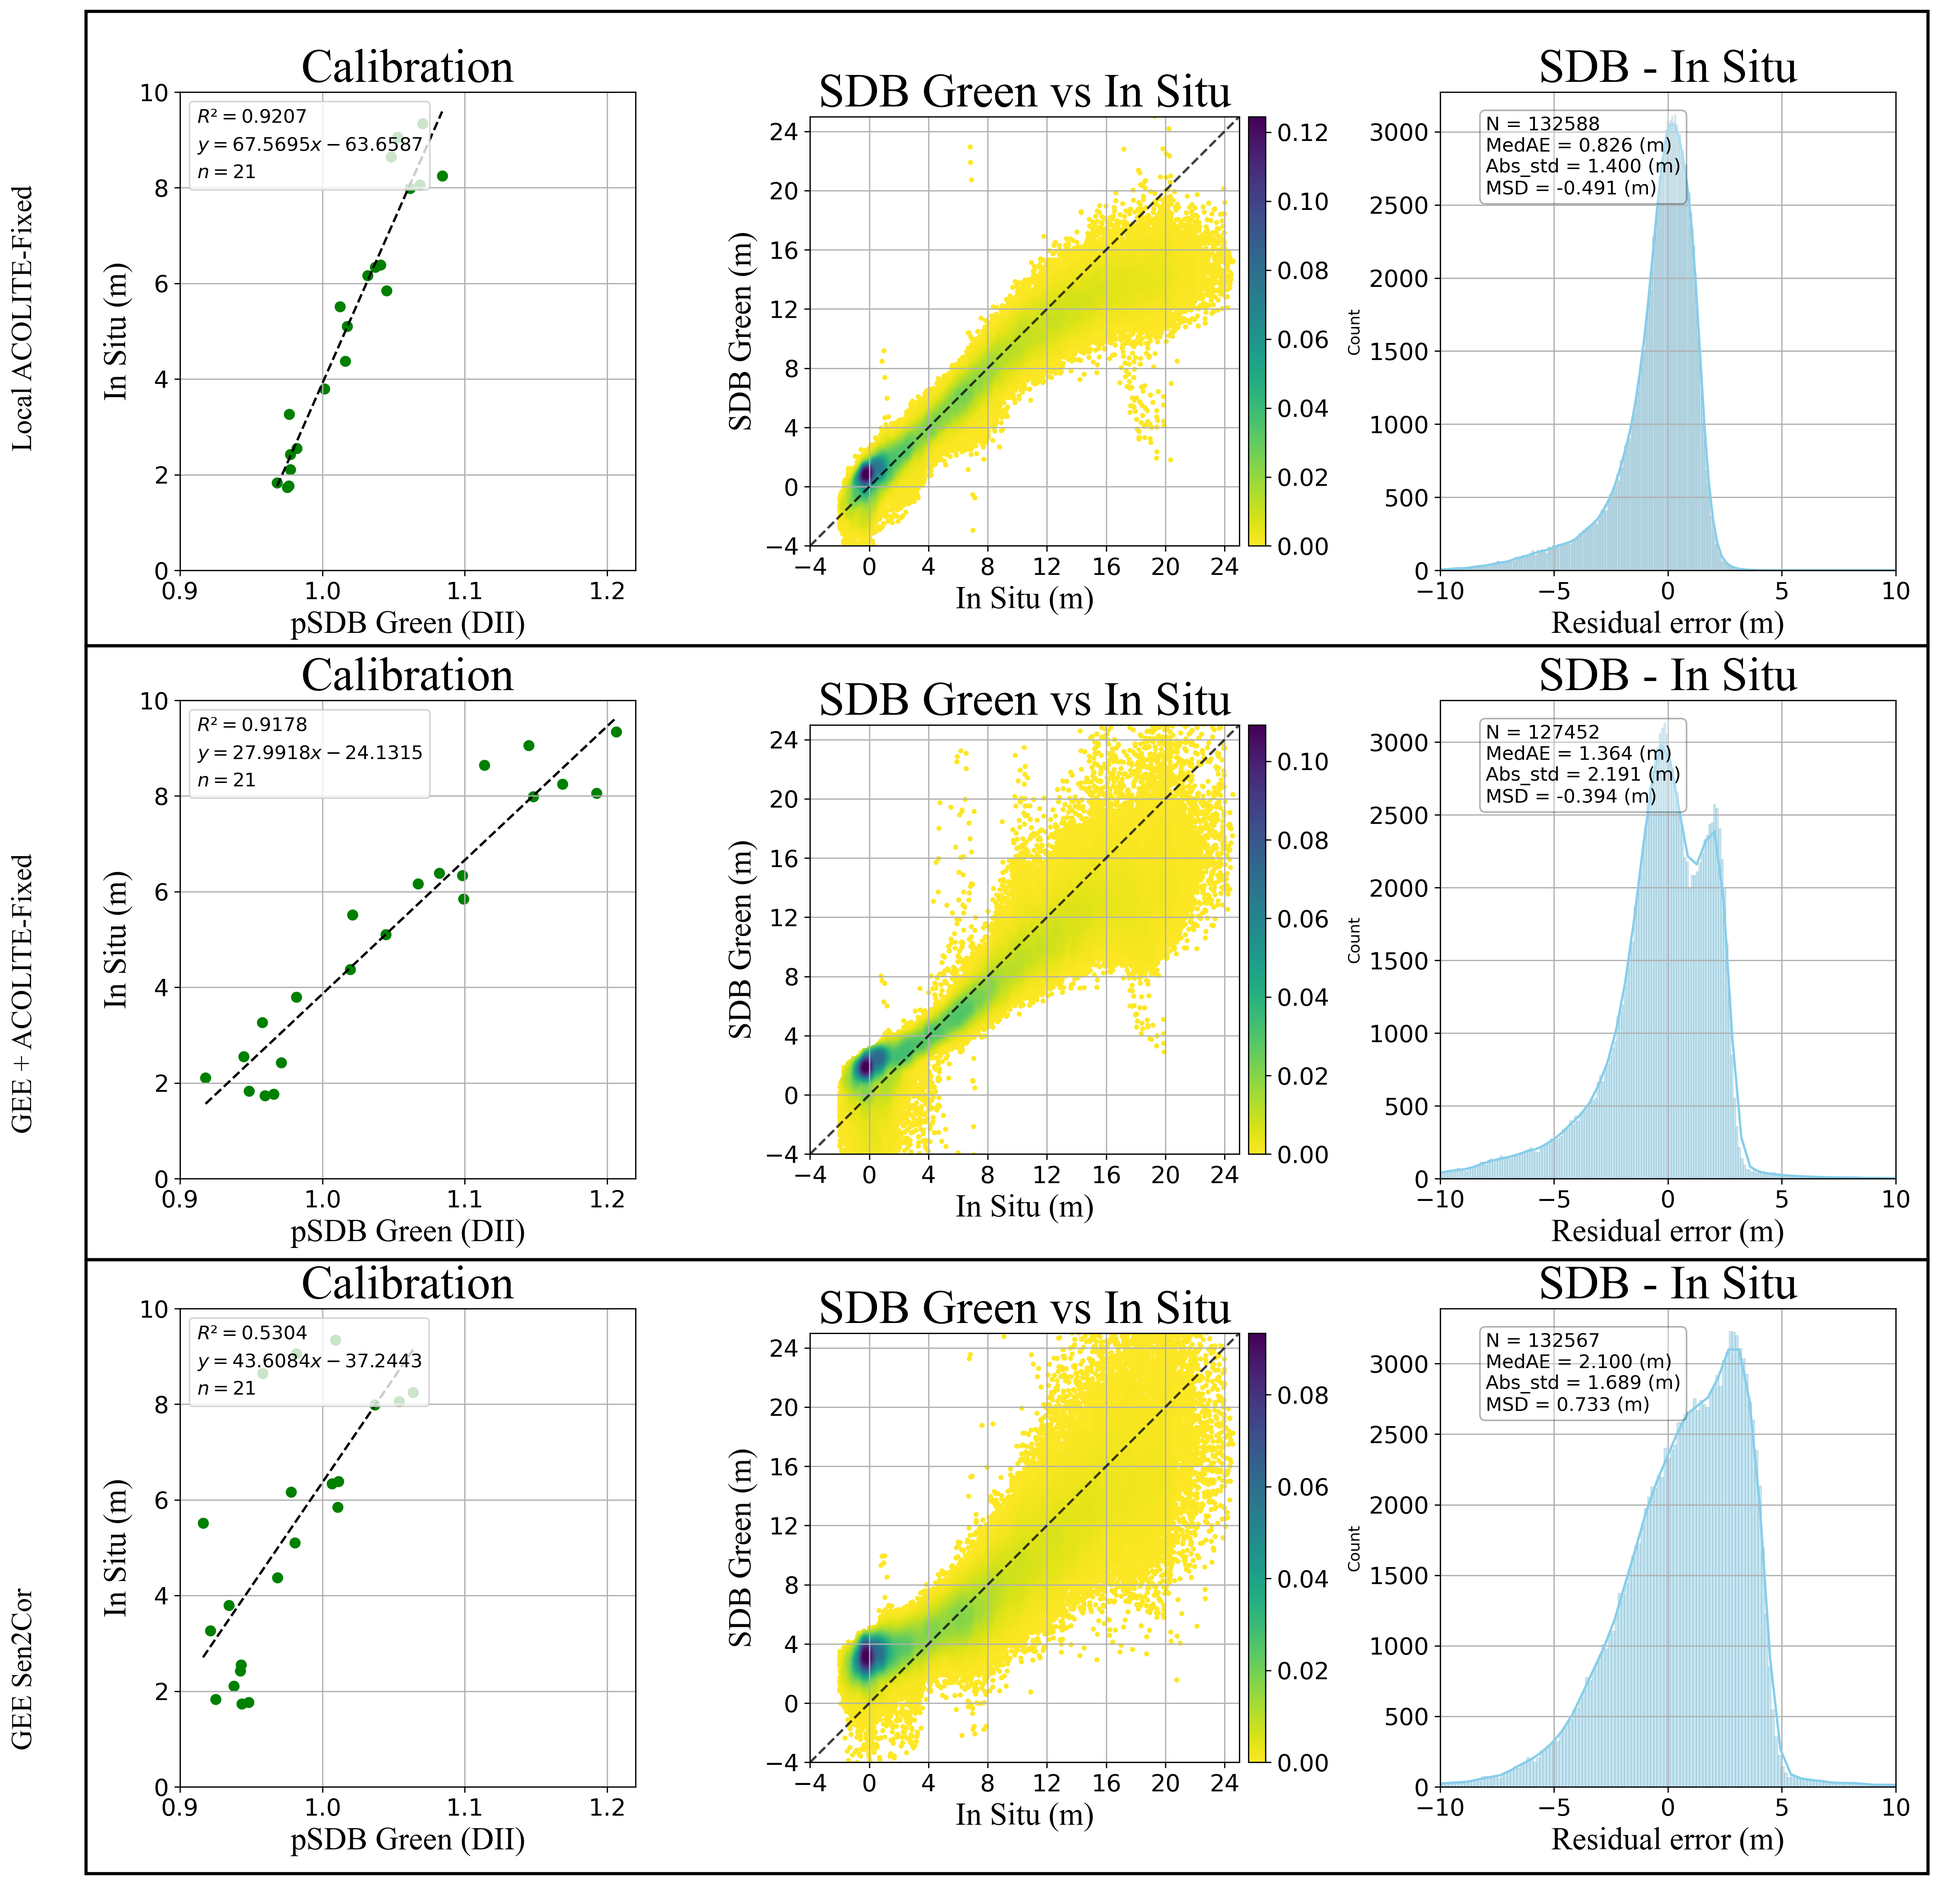
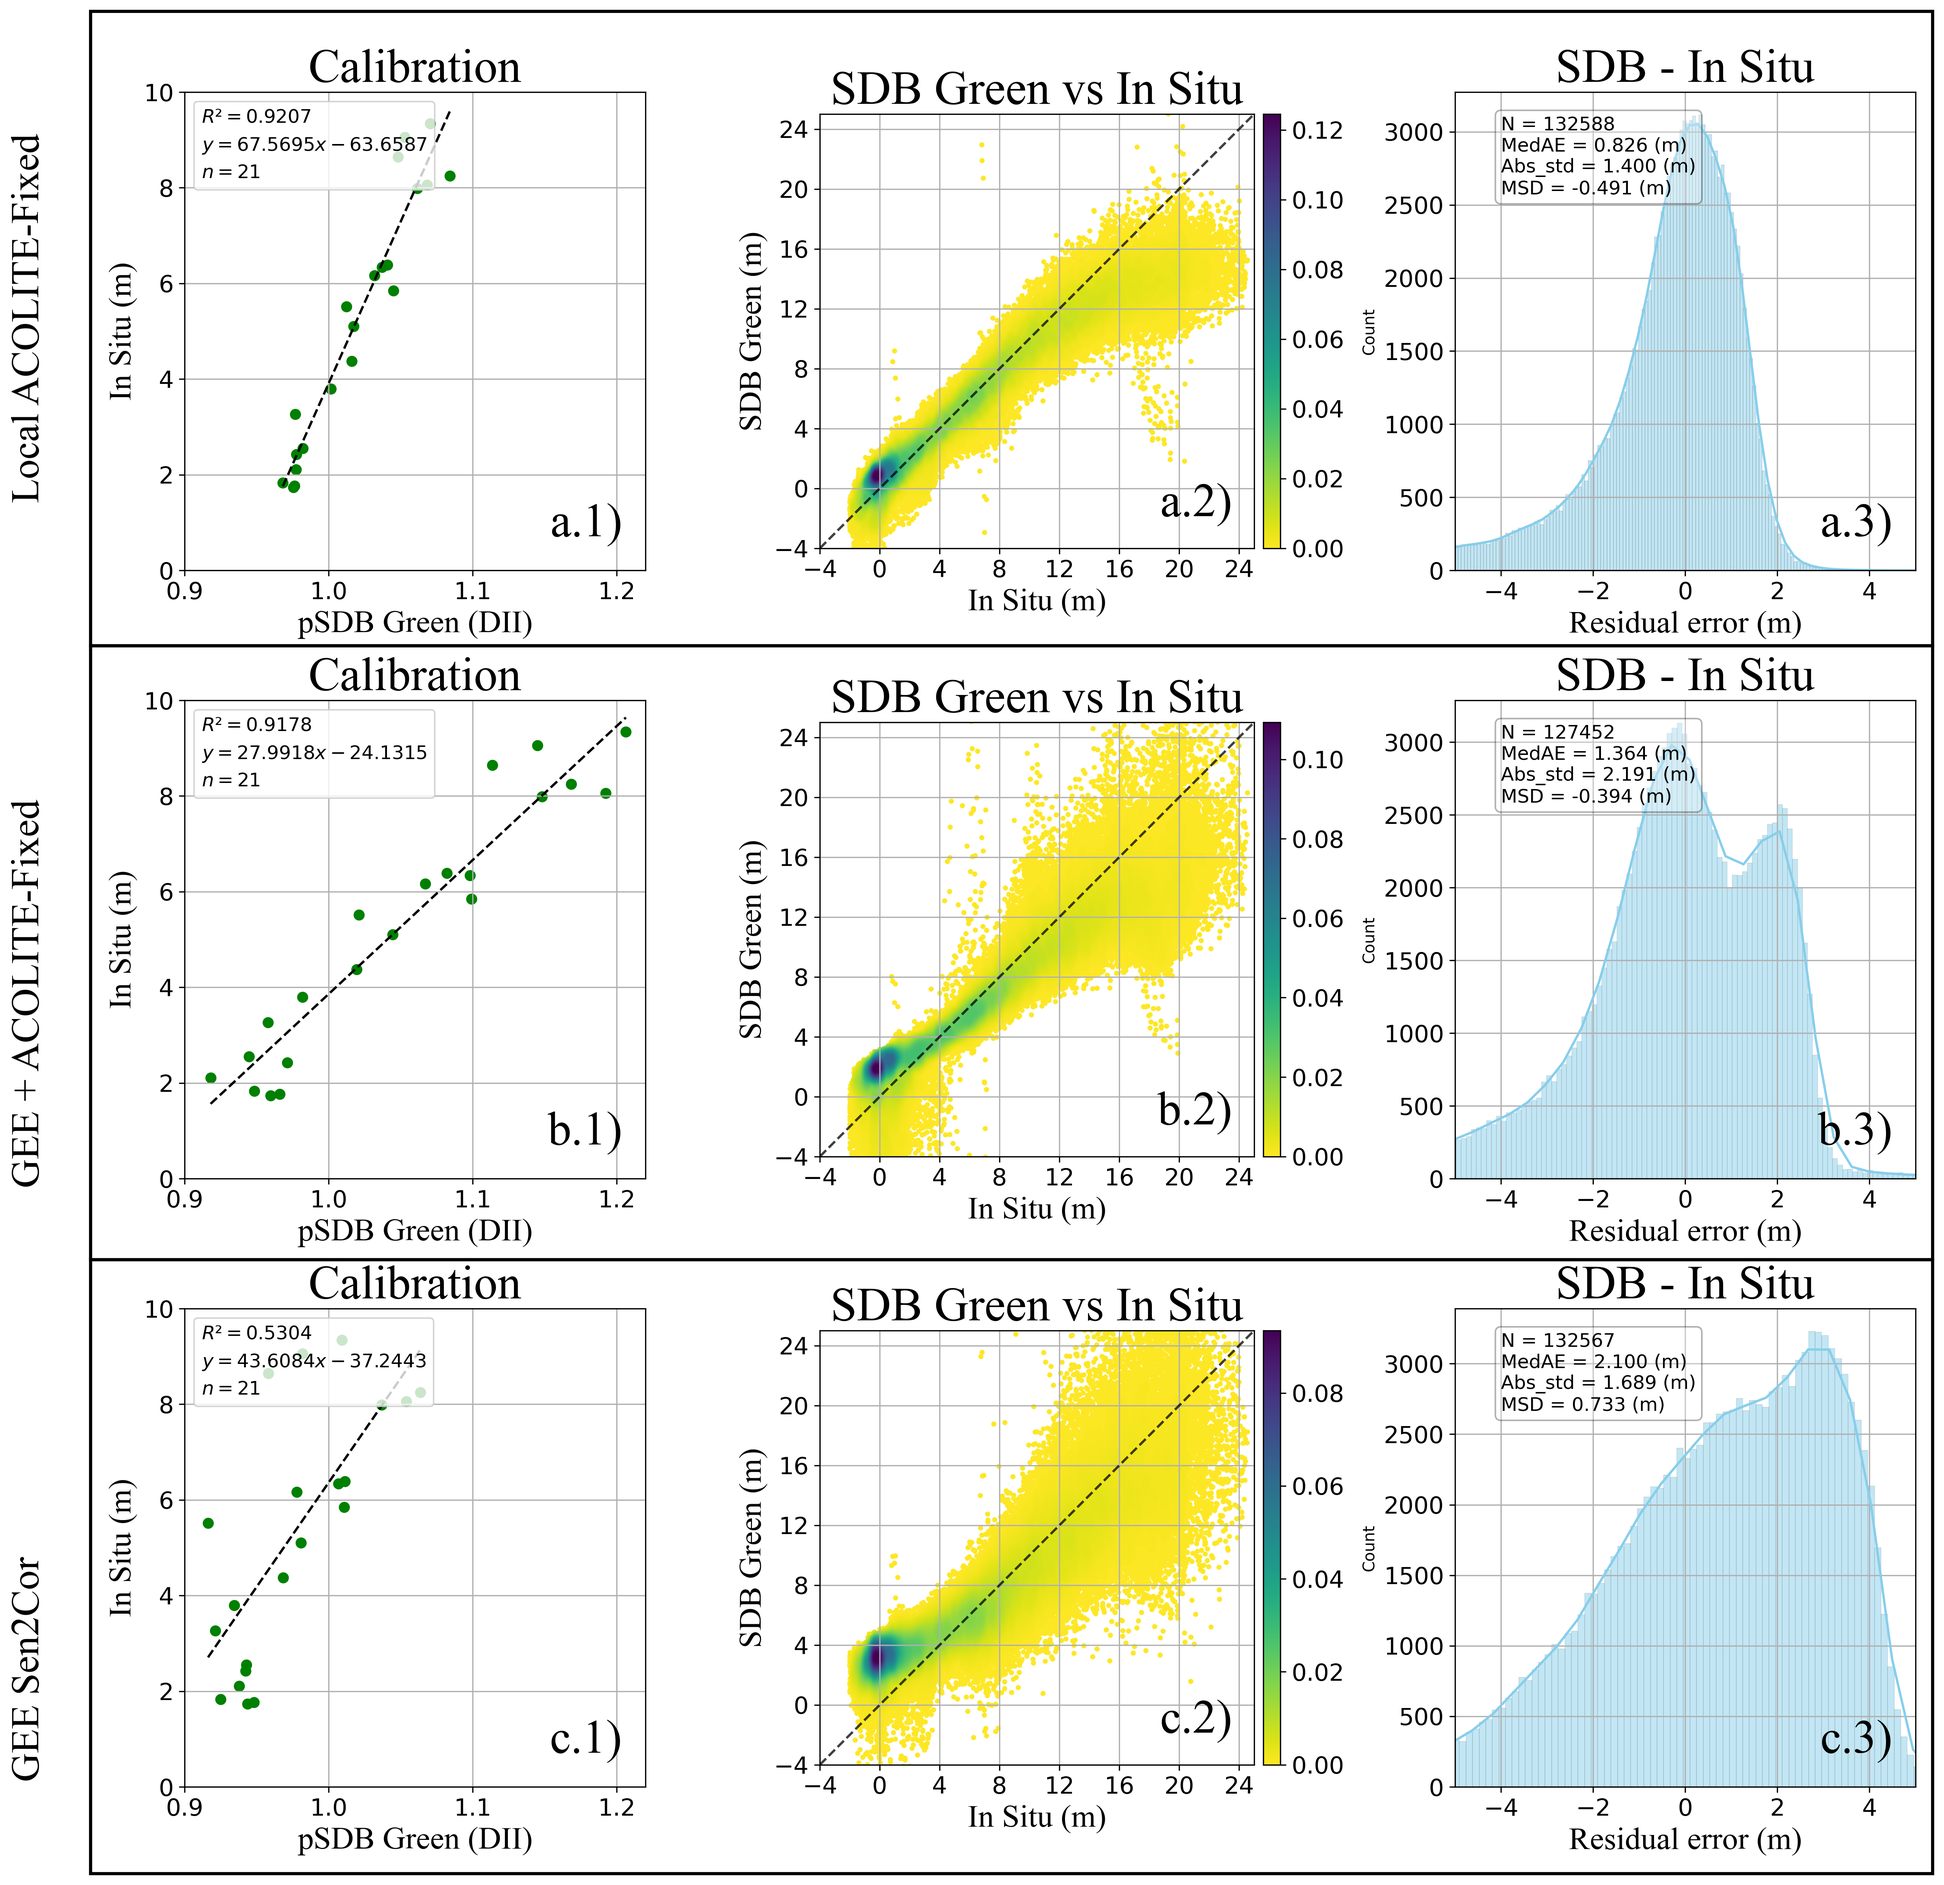
UPDATE paper revision

diff --git a/paper.md b/paper.md
@@ -19,7 +19,7 @@ authors:
     corresponding: false
     affiliation: 1
 affiliations:
- - name: Department of Ecology and Coastal Management, Institute of Marine Sciences Andalusia (ICMAN-CSIC), Spanish National Research Council (CSIC), 11519 Puerto Real, Spain
+ - name: Department of Ecology and Coastal Management, Institute of Marine Sciences of Andalusia (ICMAN), Spanish National Research Council (CSIC), 11519 Puerto Real, Spain  
    index: 1
 date: 15 December 2025
 bibliography: paper.bib
@@ -29,7 +29,7 @@ bibliography: paper.bib
 
 Atmospheric correction is a critical preprocessing step in aquatic remote sensing, required to retrieve accurate water-leaving reflectance from satellite imagery. The ACOLITE (Atmospheric Correction for OLI 'lite') software [@vanhellemont2019; @vanhellemont2021] has become a widely-used tool for atmospheric correction of aquatic imagery, particularly for its dark spectrum fitting (DSF) algorithm. However, ACOLITE operates on downloaded scenes, limiting its scalability for large-scale or time-series analyses.
 
-Google Earth Engine (GEE) [@gorelick2017] is a cloud-based platform that provides access to petabytes of satellite imagery and enables planetary-scale geospatial analysis. While GEE offers built-in atmospheric correction products for Sentinel-2 (Level-2A), these are optimized for terrestrial applications and often underperform in coastal and inland water environments where adjacency effects and complex atmospheric conditions are prevalent.
+Google Earth Engine (GEE) is a cloud-based platform that provides access to petabytes of satellite imagery and enables planetary-scale geospatial analisis (Gorelick et al., 2017) . While GEE offers built-in atmospheric correction products for Sentinel-2 (Level-2A), these are optimized for terrestrial applications and often underperform in coastal and inland water environments where adjacency effects and complex atmospheric conditions are prevalent.
 
 `GEE ACOLITE` bridges this gap by implementing ACOLITE's dark spectrum fitting atmospheric correction algorithm directly within the Google Earth Engine framework, enabling efficient, scalable atmospheric correction for aquatic applications.
 
@@ -42,7 +42,7 @@ Researchers studying coastal and inland waters require accurate atmospheric corr
 - **Implementing DSF correction in GEE**: Enabling ACOLITE's dark spectrum fitting algorithm within GEE's cloud infrastructure 
 - **Eliminating data download requirements**: Processing occurs entirely within GEE, accessing imagery directly from the archive
 - **Enabling scalable analysis**: Users can process entire image collections across large spatial and temporal extents
-- **Providing water quality products**: Direct computation of SPM, turbidity, chlorophyll-a, and bathymetric indices
+- **Providing water quality products**: Direct computation of SPM, turbidity, chlorophyll-a, and bathymetric maps
 - **Supporting batch processing**: Efficient processing of multiple images with consistent settings
 
 The library is designed for aquatic remote sensing researchers, environmental monitoring agencies, and coastal zone managers who require accurate atmospheric correction for water quality assessment and monitoring.
@@ -54,8 +54,8 @@ The library is designed for aquatic remote sensing researchers, environmental mo
 1. **Dark spectrum extraction**: Three methods (darkest pixel, percentile, and intercept) for identifying dark water pixels
 2. **Aerosol optical thickness (AOT) estimation**: Using lookup tables (LUTs) generated by ACOLITE
 3. **Atmospheric correction**: Retrieving water-leaving reflectance using radiative transfer calculations
-4. **Residual correction**: Optional sun glint corrections
-5. **Water quality products**: Computation of derived products (SPM, chlorophyll, turbidity, bathymetry)
+4. **Sun glint correction**: Optional sun glint corrections
+5. **Water quality products**: Computation of derived products (SPM, chlorophyll-a, turbidity, bathymetry)
 
 The library maintains compatibility with ACOLITE's configuration system while adapting the algorithms for GEE's distributed computing environment. Processing can be configured through Python dictionaries or ACOLITE-compatible settings files.
 
@@ -69,48 +69,17 @@ Key features of `GEE ACOLITE` include:
 - **Cloud masking**: Integration with Sentinel-2 Cloud Probability
 - **Batch processing**: Efficient processing of image collections
 
-# Example usage
-
-```python
-import sys
-sys.path.append(r'E:\acolites\20231023.0')
-
-import ee
-import acolite as ac
-from gee_acolite.correction import ACOLITE
-
-ee.Initialize()
-
-# Define area and time range
-roi = ee.Geometry.Point([-76.7, 38.2])
-images = ee.ImageCollection('COPERNICUS/S2_HARMONIZED') \
-    .filterBounds(roi) \
-    .filterDate('2023-06-01', '2023-06-30')
-
-# Configure processing
-settings = {
-    'aerosol_correction': 'dark_spectrum',
-    'dsf_aot_estimate': 'fixed',
-    'dsf_model_selection': 'min_drmsd',
-    'l2w_parameters': ['spm_nechad2016', 'chl_oc2']
-}
-
-# Apply correction
-processor = ACOLITE(ac, settings)
-corrected_images, corrected_settings = processor.correct(images)
-```
-
 # Validation and Performance
 
 The library has been validated against standalone ACOLITE processing for Sentinel-2 imagery. \autoref{fig:spectral_comparison} compares mean remote sensing reflectance (Rrs) spectra from eight scenes over Ria Formosa using three atmospheric correction approaches: (1) GEE's Sen2Cor L2A, (2) standalone ACOLITE (Local ACOLITE-Fixed), and (3) GEE ACOLITE.
 
-The results demonstrate similar spectral responses across all tested scenes, with GEE ACOLITE retrievals closely matching the standalone ACOLITE processing. Both ACOLITE implementations show consistent retrieval of water-leaving reflectance across the visible and near-infrared spectrum, with typical values ranging from 0.005 to 0.020 sr$^{-1}$. The agreement between GEE ACOLITE and local ACOLITE processing validates the correct implementation of the dark spectrum fitting algorithm within the Google Earth Engine framework. Minor differences between Sen2Cor and ACOLITE-based retrievals are expected due to fundamental differences in atmospheric correction approaches, with ACOLITE's dark spectrum fitting method being specifically optimized for aquatic applications.
+The results demonstrate similar spectral responses across all tested scenes, with GEE ACOLITE retrievals closely matching the standalone ACOLITE processing. Both ACOLITE implementations show consistent retrieval of Rrs across the visible and near-infrared spectrum, with typical values ranging from 0.005 to 0.020 sr−1. The agreement between GEE ACOLITE and local ACOLITE processing validates the correct implementation of the DSF algorithm within the GEE framework. Minor differences between Sen2Cor and ACOLITE-based retrievals are expected due to fundamental differences in atmospheric correction approaches, with ACOLITE’s DSF method being specifically optimized for aquatic applications
 
 ![Comparison of mean remote sensing reflectance (Rrs) spectra from eight Sentinel-2 scenes over the Ria Formosa (Portugal) using three atmospheric correction methods: GEE Sen2Cor L2A, Local ACOLITE-Fixed, and GEE + ACOLITE-Fixed.\label{fig:spectral_comparison}](figs/spectral_comparison.png)
 
 Beyond spectral validation, \autoref{fig:sdb} demonstrates the application of GEE ACOLITE-corrected imagery for satellite-derived bathymetry (SDB) using Stumpf's ratio method [@stumpf2003]. The results show that water quality products derived from GEE ACOLITE are suitable for subsequent environmental applications.
 
-![Satellite-derived bathymetry (SDB) from Sentinel-2 imagery (2018-10-07) over Ria Formosa using Stumpf's green band ratio method [@stumpf2003] applied to GEE ACOLITE-corrected reflectance.\label{fig:sdb}](figs/sdb.png)
+![Satellite-derived bathymetry (SDB) from Sentinel-2 imagery (2018-10-07) over Ria Formosa using Stumpf's green band ratio method [@stumpf2003] applied to three atmospheric correction methods. Each row corresponds to a different method: Local ACOLITE-Fixed (a), GEE + ACOLITE-Fixed (b), and GEE Sen2Cor (c). Columns show: (a.1, a.2, a.3) calibration scatter plots between pseudo-SDB and in situ depth measurements, (a.2, b.2, c.2) validation density scatter plots comparing SDB retrievals with in situ depth, and (a.3, b.3, c.3) residual histograms with validation metrics (MedAE, absolute standard deviation, and MSD). Both GEE-based methods were masked using Local ACOLITE masks to ensure fair comparison over the same water pixels.\label{fig:sdb}](figs/sdb.png)
 
 # Availability
 
@@ -121,6 +90,6 @@ The source code for `GEE ACOLITE` is available on GitHub at https://github.com/A
 This library is based on an initial attempt by Dr. Vanhellemont to connect ACOLITE with Google Earth Engine, which served as inspiration and foundation for the current implementation. We acknowledge the Google Earth Engine team for providing the cloud computing platform.
 
 # Funding
-This project has been financially supported by the Grant CNS2023-143630 funded by MICIU/AEI/10.13039/501100011033 and by European Union Next Generation EU/PRTR.
+This work has been financially supported by the Grant CNS2023-143630 funded by MICIU/AEI/10.13039/501100011033 and by European Union Next Generation EU/PRTR. 
 
 # References
